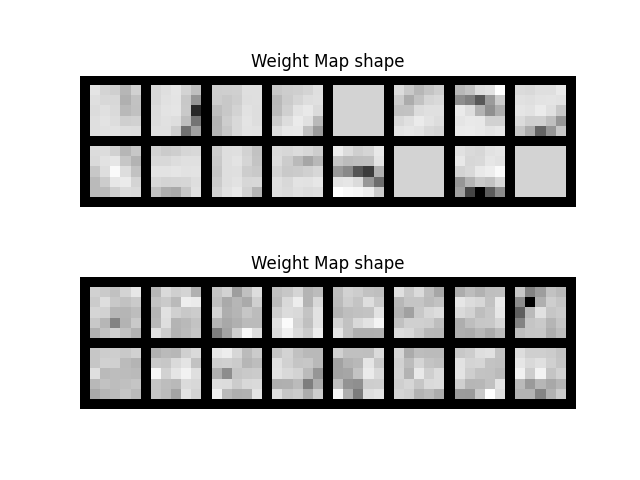
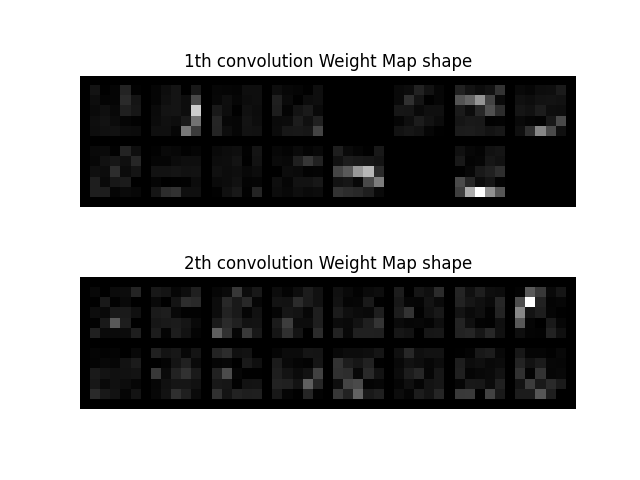
modify snn model about snn, and update visualizing.py

Changed region(s): [[0.125, 0.0938, 0.9062, 0.4375], [0.125, 0.5938, 0.9062, 0.8438], [0.2812, 0.5312, 0.75, 0.5625]]

diff --git a/utils/model.py b/utils/model.py
@@ -31,9 +31,8 @@ class CNN(nn.Module):
 
 
 class SNN(nn.Module):
-    def __init__(self, T: int = 20):
+    def __init__(self):
         super(SNN, self).__init__()
-        self.T = T
         self.layer = nn.Sequential(
             layer.Conv2d(1, 16, kernel_size=5, stride=1, padding=2, bias=False),
             neuron.LIFNode(tau=2.0, surrogate_function=surrogate.Sigmoid()),
@@ -61,131 +60,59 @@ class SNN(nn.Module):
         x = self.layer(x)
         return x
 
-class SNN_CIFAR10(nn.Module):
-    def __init__(self, T: int = 20):
-        super().__init__()
-        self.T = T
-
-        self.layer = nn.Sequential(
-            layer.Conv2d(3, 64, kernel_size=3, padding=1),
-            neuron.LIFNode(tau=2.0, surrogate_function=surrogate.Sigmoid()),
-            layer.Conv2d(64, 64, kernel_size=3, padding=1),
-            neuron.LIFNode(tau=2.0, surrogate_function=surrogate.Sigmoid()),
-            layer.MaxPool2d(2, 2),
-
-            layer.Conv2d(64, 128, kernel_size=3, padding=1),
-            neuron.LIFNode(tau=2.0, surrogate_function=surrogate.Sigmoid()),
-            layer.Conv2d(128, 128, kernel_size=3, padding=1),
-            neuron.LIFNode(tau=2.0, surrogate_function=surrogate.Sigmoid()),
-            layer.MaxPool2d(2, 2),
-
-            layer.Conv2d(128, 256, kernel_size=3, padding=1),
-            neuron.LIFNode(tau=2.0, surrogate_function=surrogate.Sigmoid()),
-            layer.Conv2d(256, 256, kernel_size=3, padding=1),
-            neuron.LIFNode(tau=2.0, surrogate_function=surrogate.Sigmoid()),
-            layer.Conv2d(256, 256, kernel_size=3, padding=1),
-            neuron.LIFNode(tau=2.0, surrogate_function=surrogate.Sigmoid()),
-            layer.MaxPool2d(2, 2),
-
-            layer.Conv2d(256, 512, kernel_size=3, padding=1),
-            neuron.LIFNode(tau=2.0, surrogate_function=surrogate.Sigmoid()),
-            layer.Conv2d(512, 512, kernel_size=3, padding=1),
-            neuron.LIFNode(tau=2.0, surrogate_function=surrogate.Sigmoid()),
-            layer.Conv2d(512, 512, kernel_size=3, padding=1),
-            neuron.LIFNode(tau=2.0, surrogate_function=surrogate.Sigmoid()),
-            layer.MaxPool2d(2, 2),
-
-            layer.Conv2d(512, 512, kernel_size=3, padding=1),
-            neuron.LIFNode(tau=2.0, surrogate_function=surrogate.Sigmoid()),
-            layer.Conv2d(512, 512, kernel_size=3, padding=1),
-            neuron.LIFNode(tau=2.0, surrogate_function=surrogate.Sigmoid()),
-            layer.Conv2d(512, 512, kernel_size=3, padding=1),
-            neuron.LIFNode(tau=2.0, surrogate_function=surrogate.Sigmoid()),
-            layer.MaxPool2d(2, 2),
-            layer.AdaptiveAvgPool2d((7, 7))
-        )
-
-        self.classifier = nn.Sequential(
-            layer.Flatten(),
-            layer.Linear(512 * 7 * 7, 4096),
-            neuron.LIFNode(tau=2.0, surrogate_function=surrogate.Sigmoid()),
-            layer.Dropout(p=0.5),
-            layer.Linear(4096, 4096),
-            neuron.LIFNode(tau=2.0, surrogate_function=surrogate.Sigmoid()),
-            layer.Dropout(p=0.5),
-            layer.Linear(4096, 10)
-        )
-
-        functional.set_step_mode(self, step_mode='m')
-
-    def forward(self, x):
-        x = x.permute(1, 0, 2, 3, 4)
-        x = self.layer(x)
-        if isinstance(self.layer[-1], layer.AdaptiveAvgPool2d):
-            x = th.flatten(x, 2)  # [T, B, 512*7*7]
-        x = self.classifier(x)       # [T, B, num_classes]
-        return x
-    
-class BasicBlock(nn.Module):
-    def __init__(self, in_channels, out_channels, stride=1, downsample=None):
-        super(BasicBlock, self).__init__()
-        self.block = nn.Sequential(
-            layer.Conv2d(in_channels, out_channels, kernel_size=3, stride=stride, padding=1, bias=False),
-            neuron.LIFNode(tau=2.0, surrogate_function=surrogate.Sigmoid()),
-            layer.Conv2d(out_channels, out_channels, kernel_size=3, stride=1, padding=1, bias=False),
-            neuron.LIFNode(tau=2.0, surrogate_function=surrogate.Sigmoid()),
-        )
-        self.downsample = downsample
-
-    def forward(self, x):
-        identity = x
-        out = self.block(x)
-        if self.downsample is not None:
-            identity = self.downsample(x)
-        identity = identity.detach()
-        out += identity
-        return out
-
-
-class SpikingResNet18(nn.Module):
-    def __init__(self, T=20, num_classes=10):
-        super().__init__()
-        self.T = T
-        self.in_channels = 64
-        self.init_layer = nn.Sequential(
-            layer.Conv2d(3, 64, kernel_size=3, stride=1, padding=1, bias=False),
-            neuron.LIFNode(tau=2.0, surrogate_function=neuron.surrogate.Atan())
-        )
-        self.layer1 = self._make_layer(64, 2, stride=1)
-        self.layer2 = self._make_layer(128, 2, stride=2)
-        self.layer3 = self._make_layer(256, 2, stride=2)
-        self.layer4 = self._make_layer(512, 2, stride=2)
-        self.avgpool = layer.AdaptiveAvgPool2d((1, 1))
+class SpikingVGG16(nn.Module):
+    def __init__(self, batch_norm: bool = False, num_classes: int = 10, init_weights: bool = True):
+        super(SpikingVGG16, self).__init__()
+        list = [64, 64, 'M', 128, 128, 'M', 256, 256, 256, 'M', 512, 512, 512, 'M', 512, 512, 512, 'M']
+        self.features = self._make_layers(list, batch_norm)
+        self.avgpool = layer.AdaptiveAvgPool2d((7, 7))
         self.flatten = layer.Flatten()
-        self.fc = layer.Linear(512, num_classes)
-
+        self.classifier = nn.Sequential(
+            layer.Linear(512 * 7 * 7, 4096),
+            neuron.IFNode(),
+            layer.Dropout(p = 0.5),
+            layer.Linear(4096, 4096),
+            neuron.IFNode(),
+            layer.Dropout(p = 0.5),
+            layer.Linear(4096, num_classes),
+        )
+        if init_weights:
+            self._initialize_weights()
         functional.set_step_mode(self, step_mode='m')
-
-    def _make_layer(self, out_channels, blocks, stride):
-        downsample = None
-        if stride != 1 or self.in_channels != out_channels:
-            downsample = nn.Sequential(
-                layer.Conv2d(self.in_channels, out_channels, kernel_size=1, stride=stride, bias=False)
-            )
-        layers = [BasicBlock(self.in_channels, out_channels, stride, downsample)]
-        self.in_channels = out_channels
-        for _ in range(1, blocks):
-            layers.append(BasicBlock(out_channels, out_channels))
-        return nn.Sequential(*layers)
-
+        
     def forward(self, x):
         x = x.permute(1, 0, 2, 3, 4)
-        x = self.init_layer(x)
-        x = self.layer1(x)
-        x = self.layer2(x)
-        x = self.layer3(x)
-        x = self.layer4(x)
+        x = self.features(x)
         x = self.avgpool(x)
         x = self.flatten(x)
-        x = self.fc(x)
+        x = self.classifier(x)
         return x
+
+    @staticmethod
+    def _make_layers(cfg, batch_norm):
+        layers = []
+        in_channels = 3
+        for v in cfg:
+            if v == 'M':
+                layers += [layer.MaxPool2d(kernel_size=2, stride=2)]
+            else:
+                conv2d = layer.Conv2d(in_channels, v, kernel_size=3, padding=1)
+                if batch_norm:
+                    layers += [conv2d, layer.BatchNorm2d(v), neuron.IFNode()]
+                else:
+                    layers += [conv2d, neuron.IFNode()]
+                in_channels = v
+        return nn.Sequential(*layers)
+
+    def _initialize_weights(self):
+        for m in self.modules():
+            if isinstance(m, layer.Conv2d):
+                nn.init.kaiming_normal_(m.weight, mode='fan_out', nonlinearity='relu')
+                if m.bias is not None:
+                    nn.init.constant_(m.bias, 0)
+            elif isinstance(m, layer.BatchNorm2d):
+                nn.init.constant_(m.weight, 1)
+                nn.init.constant_(m.bias, 0)
+            elif isinstance(m, layer.Linear):
+                nn.init.normal_(m.weight, 0, 0.01)
+                nn.init.constant_(m.bias, 0)

diff --git a/visualizing.py b/visualizing.py
@@ -34,8 +34,9 @@ def initialize_low_variance(conv_layer: nn.Conv2d, threthold : float = 0.1) -> t
 
 if __name__ == "__main__":
     # Create an instance of the SNN model with T=10 and move it to the GPU
-    net = SNN(T=10).to(th.device("cuda:0"))
-    net.load_state_dict(th.load(f"./saved/snn_MNIST.pt"))
+    method = "snn"
+    net = SNN().to(th.device("cuda:0"))
+    net.load_state_dict(th.load(f"./saved/{method}_MNIST.pt"))
     
     # Initialize an empty list to store Conv2D modules
     conv_list = []
@@ -46,12 +47,13 @@ if __name__ == "__main__":
             conv_list.append(module)
     
     # Create a figure and two subplots for visualizing weight maps
-    fig , axes = plt.subplots(len(conv_list), 1)
-    
+    fig, axes = plt.subplots(len(conv_list), 1)
+    fig.suptitle(f"Weight Map of {method}")
     for idx, (axe, module) in enumerate(zip(axes, conv_list)):
         if isinstance(module, nn.Conv2d):
             # Extract the weights of the Conv2D layer and clone them to CPU
             weight = module.weight.detach().cpu().clone()[:,:3]        
+            weight = th.abs(weight)
             
             # If the weight shape is not compatible, adjust it
             if weight[1].shape != 3: 
@@ -63,24 +65,26 @@ if __name__ == "__main__":
             grid = make_grid(weight, nrow=8, normalize=True, padding=1)
             grid = grid.permute(1, 2, 0)
             
+            # Set the title of the axes to indicate the content being visualized
+            axe.set_title(f"{idx + 1}th convolution Weight Map shape")
+            
             # Draw the weight map on the current axes
-             # Set the title of the axes to indicate the content being visualized
-            axe.set_title(f"{idx} Weight Map shape")
             draw_weight_map(fig, axe, grid)
             
     # Save the figure containing the weight maps to a file
-    fig.savefig(f"./images/weight_map/weight_map_snn.png")
-    print("saved weight map to ./images/weight_map/weight_map_snn.png")
+    fig.savefig(f"./images/weight_map/weight_map_{method}.png")
+    print(f"saved weight map to ./images/weight_map/weight_map_{method}.png")
     
     fig, axes = plt.subplots(len(conv_list), 1)
 
-    for axe, module in zip(axes, conv_list):
+    for idx, (axe, module) in enumerate(zip(axes, conv_list)):
         if isinstance(module, nn.Conv2d):
             
             module.data = initialize_low_variance(module)
             
             # Extract the weights of the Conv2D layer and clone them to CPU
             weight = module.weight.detach().cpu().clone()[:,:3]        
+            weight = th.abs(weight)
             
             # If the weight shape is not compatible, adjust it
             if weight[1].shape != 3: 
@@ -92,9 +96,12 @@ if __name__ == "__main__":
             grid = make_grid(weight, nrow=8, normalize=True, padding=1)
             grid = grid.permute(1, 2, 0)
             
+            # Set the title of the axes to indicate the content being visualized
+            axe.set_title(f"{idx + 1}th convolution Weight Map shape")
+            
             # Draw the weight map on the current axes
             draw_weight_map(fig, axe, grid)
             
     # Save the figure containing the weight maps to a file
-    fig.savefig(f"./images/weight_map/weight_map_snn_scailing.png")
-    print("saved weight map to ./images/weight_map/weight_map_snn_scailing.png")
+    fig.savefig(f"./images/weight_map/weight_map_{method}_scailing.png")
+    print(f"saved weight map to ./images/weight_map/weight_map_{method}_scailing.png")

diff --git a/utils/train.py b/utils/train.py
@@ -5,7 +5,7 @@ from dataclasses import replace
 from .spikingjelly.spikingjelly.activation_based import functional, learning
 from typing import Tuple
 from tqdm.auto import tqdm
-from .model import CNN, SNN, SpikingResNet18
+from .model import CNN, SNN, SpikingVGG16
 from .adversarial_image import generate_adversial_image_fgsm, save_image
 from .config import Config
 import wandb
@@ -104,7 +104,7 @@ def evaluate_model(config: Config) -> Tuple[float, float, (float|None)]:
             net.train()
             clean_pred = net(data).mean(0).argmax(1) if config.method != "CNN" else net(data).argmax(1)
             adv_imgs = generate_adversial_image_fgsm(net, data, target, config.epsilon)
-            save_image(data, adv_imgs, f"./images/image_comparison/comparison_image_{config.method.lower()}_{config.data_set}.png", target)
+            #save_image(data, adv_imgs, f"./images/image_comparison/comparison_image_{config.method.lower()}_{config.data_set}.png", target)
             data = adv_imgs
             net.eval()
 
@@ -141,7 +141,7 @@ def train_evaluate(config: Config) -> None:
         net = (
             SNN(T=config.timestep).to(config.device)
             if config.data_set == "MNIST"
-            else SpikingResNet18(T=config.timestep).to(config.device)
+            else SpikingVGG16(num_classes = 10).to(config.device)
         )
     stdp_learners, parameters_stdp, parameters_gd = [], [], []
 

diff --git a/utils/adversarial_image.py b/utils/adversarial_image.py
@@ -94,7 +94,7 @@ def save_image(original_image, adversarial_image, filename, target):
 
     original_image = original_image.mean(1)
     adversarial_image = adversarial_image.mean(1)
-
+    
     r = random.randint(0, len(original_image) - 1)
     channel = original_image[r].shape[0]
     if channel == 1:
@@ -107,6 +107,13 @@ def save_image(original_image, adversarial_image, filename, target):
         adversarial_image = adversarial_image[r].detach().cpu().numpy()
         c = "gray"
         label = list(range(0, 10))
+    elif channel == 32:
+        original_image = original_image * 0.5 + 0.5
+        original_image = original_image[r].permute(1, 2, 0).detach().cpu().numpy()
+        adversarial_image = adversarial_image * 0.5 + 0.5
+        adversarial_image = adversarial_image[r].permute(1, 2, 0).detach().cpu().numpy()
+        c = None
+        label = ["airplane", "automobile", "bird", "cat", "deer", "dog", "frog", "horse", "ship", "truck"]
     else:
         original_image = original_image * 0.5 + 0.5
         original_image = original_image[r].permute(1, 2, 0).detach().cpu().numpy()

diff --git a/main.py b/main.py
@@ -104,7 +104,7 @@ if __name__ == "__main__":
             [
                 transforms.ToTensor(),
                 transforms.Normalize((0.4914, 0.4822, 0.4465), (0.2470, 0.2435, 0.2616)),  
-                PoissonEncoder(use_poisson= True if args.net != 'CNN' else False,T=args.timestep),
+                PoissonEncoder(use_poisson= True if args.method != 'CNN' else False,T=args.timestep),
             ]
         )
 
